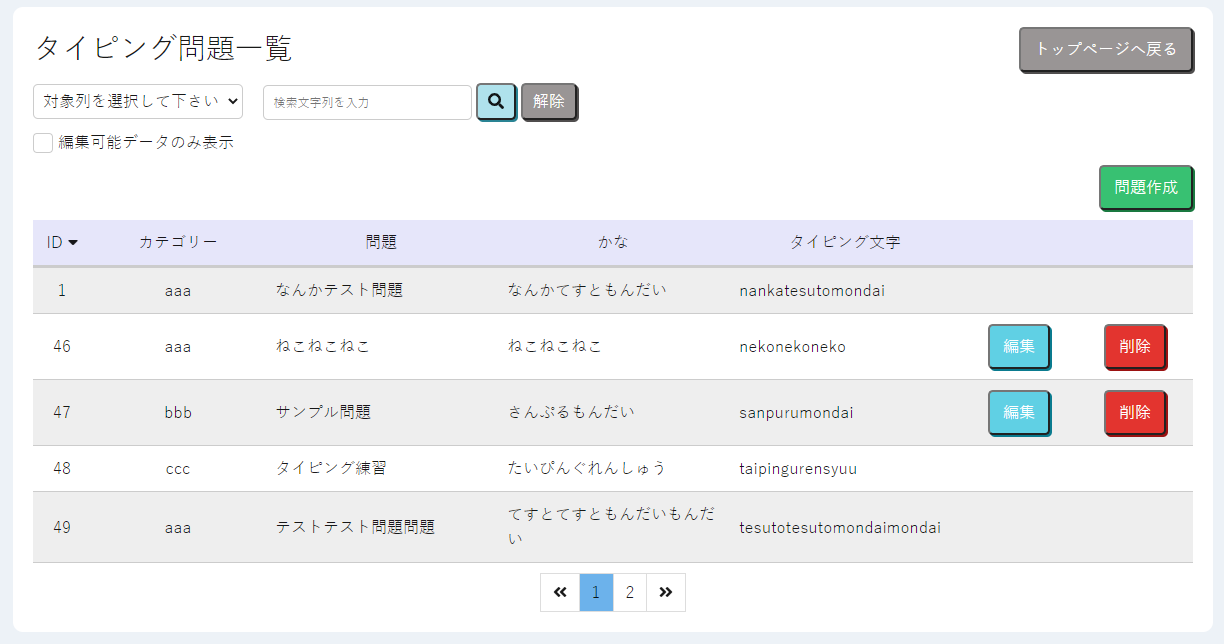
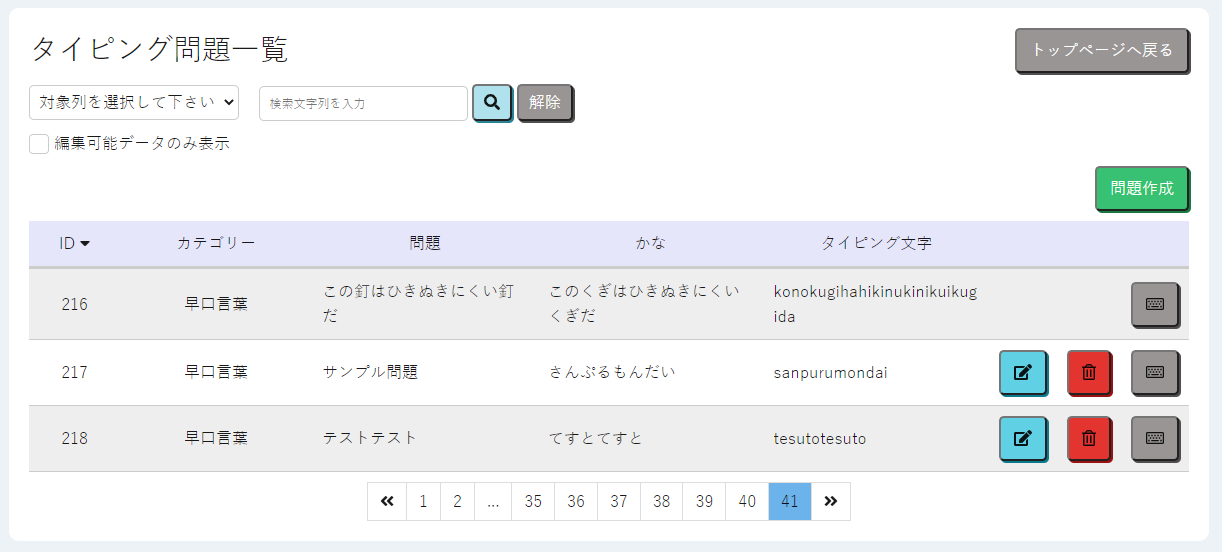
タイピング練習紹介ページ更新

diff --git a/works_typing_training.html b/works_typing_training.html
@@ -142,6 +142,7 @@
                 <li>作成</li>
                 <li>編集</li>
                 <li>削除</li>
+                <li>タイピングテスト</li>
               </ul>
             </li>
             <li>タイピング画面
@@ -241,6 +242,11 @@
             <img src="./img/works/typing/question_delete.gif" alt="question_delete">
           </div>
           <p>問題データを削除します。自分が作成したデータのみ可能です。（管理者ユーザーは全て可能です）</p>
+          <p class="headline-small">タイピングテスト</p>
+          <div class="img-wrapper">
+            <img src="./img/works/typing/question_test.gif" alt="question_test">
+          </div>
+          <p>問題のタイピングテストを行うことができます。全てのログインユーザーが実施可能です。</p>
 
           <p class="headline-normal">タイピング画面</p>
           <p>タイピングを行う画面です。タイピングはPCでの操作を想定して作成しています。</p>
